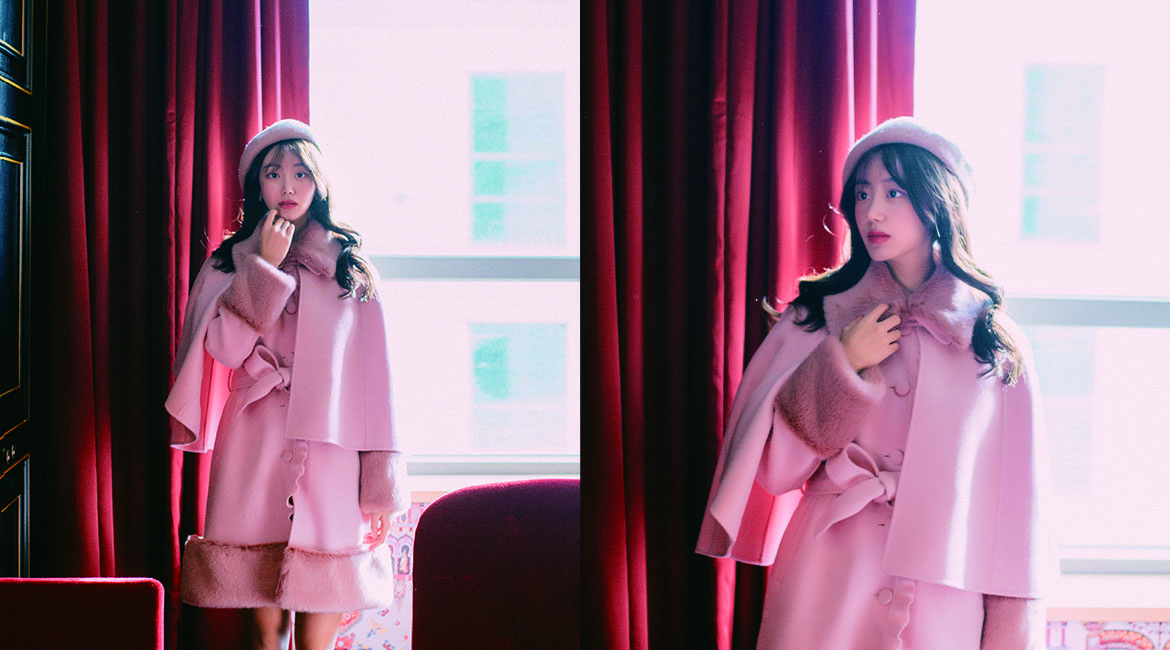
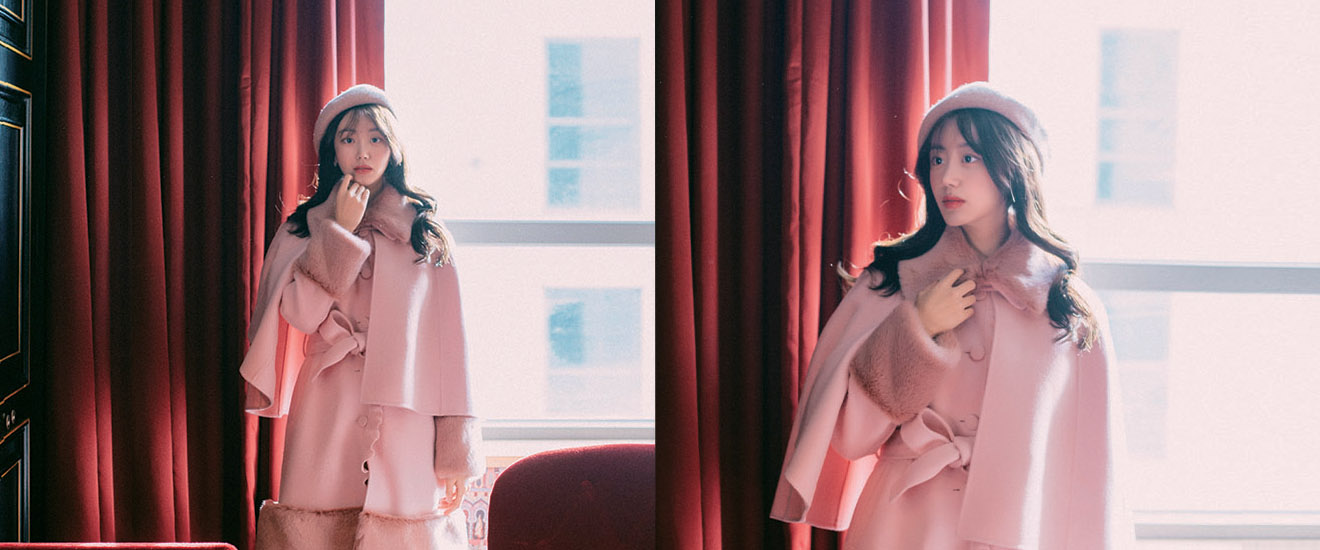
6 룩북바꾸고 드레스/아우터 스크롤없앰

diff --git a/sub/look.html b/sub/look.html
@@ -6,6 +6,7 @@
    <link rel="stylesheet" href="../css/style.css">
    <script src="../js/jquery.min.js"></script>
    <script src="../js/common.js"></script>
+   <link rel="stylesheet" href="https://unpkg.com/swiper/swiper-bundle.min.css">
     <!--[if lt IE 9]>
       <script src = "http://html5shiv.googlecode.com/svn/trunk/html5.js"></script>
     <![endif]-->
@@ -28,40 +29,50 @@
      <div id="look">
        <div class="container">
          <p class="look_text">LOOK&nbsp;BOOK</p>
-           <div class="look_list">
-             <ul>
-               <li><a href="../img/sub/unjin1.jpg"><img src="../img/sub/unjin1.jpg"  alt=""></a></li>
-               <li><a href="../img/sub/unjin2.jpg"><img src="../img/sub/unjin2.jpg"  alt=""></a></li>
-               <li><a href="../img/sub/unjin3.jpg"><img src="../img/sub/unjin3.jpg"  alt=""></a></li>
-               <li><a href="../img/sub/unjin4.jpg"><img src="../img/sub/unjin4.jpg"  alt=""></a></li>
-               <li><a href="../img/sub/unjin5.jpg"><img src="../img/sub/unjin5.jpg"  alt=""></a></li>
-               <li><a href="../img/sub/unjin6.jpg"><img src="../img/sub/unjin6.jpg"  alt=""></a></li>
-               <li><a href="../img/sub/unjin7.jpg"><img src="../img/sub/unjin7.jpg"  alt=""></a></li>
-               <li><a href="../img/sub/unjin8.jpg"><img src="../img/sub/unjin8.jpg"  alt=""></a></li>
-             </ul>
-             <ul>
-               <li><a href="../img/sub/unjin8.jpg"><img src="../img/sub/unjin8.jpg"  alt=""></a></li>
-               <li><a href="../img/sub/unjin7.jpg"><img src="../img/sub/unjin7.jpg"  alt=""></a></li>
-               <li><a href="../img/sub/unjin6.jpg"><img src="../img/sub/unjin6.jpg"  alt=""></a></li>
-               <li><a href="../img/sub/unjin5.jpg"><img src="../img/sub/unjin5.jpg"  alt=""></a></li>
-               <li><a href="../img/sub/unjin4.jpg"><img src="../img/sub/unjin4.jpg"  alt=""></a></li>
-               <li><a href="../img/sub/unjin3.jpg"><img src="../img/sub/unjin3.jpg"  alt=""></a></li>
-               <li><a href="../img/sub/unjin2.jpg"><img src="../img/sub/unjin2.jpg"  alt=""></a></li>
-               <li><a href="../img/sub/unjin1.jpg"><img src="../img/sub/unjin1.jpg"  alt=""></a></li>
-             </ul>
-             <ul>
-               <li><a href="../img/sub/unjin1.jpg"><img src="../img/sub/unjin1.jpg"  alt=""></a></li>
-               <li><a href="../img/sub/unjin2.jpg"><img src="../img/sub/unjin2.jpg"  alt=""></a></li>
-               <li><a href="../img/sub/unjin3.jpg"><img src="../img/sub/unjin3.jpg"  alt=""></a></li>
-               <li><a href="../img/sub/unjin4.jpg"><img src="../img/sub/unjin4.jpg"  alt=""></a></li>
-               <li><a href="../img/sub/unjin5.jpg"><img src="../img/sub/unjin5.jpg"  alt=""></a></li>
-               <li><a href="../img/sub/unjin6.jpg"><img src="../img/sub/unjin6.jpg"  alt=""></a></li>
-               <li><a href="../img/sub/unjin7.jpg"><img src="../img/sub/unjin7.jpg"  alt=""></a></li>
-               <li><a href="../img/sub/unjin8.jpg"><img src="../img/sub/unjin8.jpg"  alt=""></a></li>
-             </ul>
-           </div>
+         <div class="swiper-container gallery-top">
+       		<div class="swiper-wrapper">
+       			<div class="swiper-slide" style="background-image:url(../img/sub/unjin1.jpg)">
+       			</div>
+       			<div class="swiper-slide" style="background-image:url(../img/sub/unjin2.jpg)">
+       			</div>
+       			<div class="swiper-slide" style="background-image:url(../img/sub/unjin3.jpg)">
+       			</div>
+       			<div class="swiper-slide" style="background-image:url(../img/sub/unjin4.jpg)">
+       			</div>
+       			<div class="swiper-slide" style="background-image:url(../img/sub/unjin5.jpg)">
+       			</div>
+       			<div class="swiper-slide" style="background-image:url(../img/sub/unjin6.jpg)">
+       			</div>
+       			<div class="swiper-slide" style="background-image:url(../img/sub/unjin7.jpg)">
+       			</div>
+       			<div class="swiper-slide" style="background-image:url(../img/sub/unjin8.jpg)">
+       			</div>
+       		</div>
+       		<!-- Add Arrows -->
+       		<div class="swiper-button-next swiper-button-white"></div>
+       		<div class="swiper-button-prev swiper-button-white"></div>
+       	</div>
+       	<div class="swiper-container gallery-thumbs">
+       		<div class="swiper-wrapper">
+       			<div class="swiper-slide" style="background-image:url(../img/sub/unjin1.jpg)">
+       			</div>
+       			<div class="swiper-slide" style="background-image:url(../img/sub/unjin2.jpg)">
+       			</div>
+       			<div class="swiper-slide" style="background-image:url(../img/sub/unjin3.jpg)">
+       			</div>
+       			<div class="swiper-slide" style="background-image:url(../img/sub/unjin4.jpg)">
+       			</div>
+       			<div class="swiper-slide" style="background-image:url(../img/sub/unjin5.jpg)">
+       			</div>
+       			<div class="swiper-slide" style="background-image:url(../img/sub/unjin6.jpg)">
+       			</div>
+       			<div class="swiper-slide" style="background-image:url(../img/sub/unjin7.jpg)">
+       			</div>
+       			<div class="swiper-slide" style="background-image:url(../img/sub/unjin8.jpg)">
+       			</div>
 
-           <p class="img_box">  <img src="../img/sub/unjin1.jpg"> </p>
+       		</div>
+       	</div>
          </div>
      </div>
    </main>
@@ -69,5 +80,32 @@
      ⓒcopyright all rights reserved.
    </footer>
   </div>
+  <!-- Swiper JS -->
+	<script src="https://unpkg.com/swiper/swiper-bundle.min.js"></script>
+
+	<!-- Initialize Swiper -->
+	<script>
+		var galleryThumbs = new Swiper('.gallery-thumbs', {
+      spaceBetween: 8,
+      slidesPerView: 5,
+      loop: true,
+      freeMode: true,
+      loopedSlides: 6, //몇번째에 넘어갈건지
+      watchSlidesVisibility: true,
+      watchSlidesProgress: true,
+    });
+    var galleryTop = new Swiper('.gallery-top', {
+      spaceBetween: 8,
+      loop:true,
+      loopedSlides: 6,
+      navigation: {
+        nextEl: '.swiper-button-next',
+        prevEl: '.swiper-button-prev',
+      },
+      thumbs: {
+        swiper: galleryThumbs,
+      },
+    });
+	</script>
 </body>
 </html>

diff --git a/css/style.css b/css/style.css
@@ -122,8 +122,8 @@ a:hover {
 
 #wrap #footer {
   margin-top: 50px;
-  height: 80px;
-  line-height: 80px;
+  height: 50px;
+  line-height: 50px;
   text-align: center;
   border-top: 1px solid #a83d4f;
   color: #a83d4f;
@@ -189,27 +189,6 @@ body.subpage main #story .story_text {
   width: 110px;
 }
 
-body.subpage main #look .container .look_list {
-  position: absolute;
-  left: 9%;
-  top: 10%;
-  padding: 20px;
-  width: 315px;
-  border: 1px dotted #a83d4f;
-}
-
-body.subpage main #look .container .look_list ul {
-  display: inline-block;
-  width: 100px;
-}
-
-body.subpage main #look .container .look_list ul li img {
-  width: 100px;
-  height: 100px;
-  padding: 0;
-  margin: 0;
-}
-
 body.subpage main #look .container .look_text {
   position: absolute;
   top: -1%;
@@ -219,15 +198,38 @@ body.subpage main #look .container .look_text {
   width: 110px;
 }
 
-body.subpage main #look .container .img_box {
-  position: absolute;
-  top: 8.8%;
-  left: 40%;
+body.subpage main #look .container .swiper-container {
+  width: 80%;
+  height: 100%;
+  margin-left: auto;
+  margin-right: auto;
+  top: 120px;
 }
 
-body.subpage main #look .container .img_box img {
+body.subpage main #look .container .swiper-slide {
+  background-size: cover;
+  background-position: center;
+}
+
+body.subpage main #look .container .gallery-top {
+  height: 60%;
   width: 80%;
-  height: 80%;
+}
+
+body.subpage main #look .container .gallery-thumbs {
+  height: 5%;
+  box-sizing: border-box;
+  padding: 10px 0;
+}
+
+body.subpage main #look .container .gallery-thumbs .swiper-slide {
+  width: 20%;
+  height: 100%;
+  opacity: 0.4;
+}
+
+body.subpage main #look .container .gallery-thumbs .swiper-slide-thumb-active {
+  opacity: 1;
 }
 
 body.subpage main #dress .dress_text, body.subpage main #outer .dress_text {
@@ -240,9 +242,7 @@ body.subpage main #dress .dress_text, body.subpage main #outer .dress_text {
 }
 
 body.subpage main #dress .dress_list, body.subpage main #outer .dress_list {
-  height: 1100px;
-  overflow-x: hidden;
-  overflow-y: auto;
+  height: 100%;
   position: absolute;
   top: 8%;
 }

diff --git a/scss/subpage.scss b/scss/subpage.scss
@@ -24,24 +24,38 @@ body.subpage{
 
     #look{
       .container{
-      .look_list{ position: absolute; left: 9%; top: 10%;
-        padding: 20px; width: 315px; border: 1px dotted $fontColorPrimary;
-        ul{
-          display: inline-block; width: 100px;
-          li{
-            img{ width: 100px; height: 100px; padding: 0; margin: 0;
-          }
+        .look_text{
+          position: absolute; top: -1%; left: 45%;
+          border: 1px dotted $fontColorPrimary; padding: 10px; width: 110px;
         }
-      }
-      }
-      .look_text{
-        position: absolute; top: -1%; left: 45%;
-        border: 1px dotted $fontColorPrimary; padding: 10px; width: 110px;
-      }
-      .img_box{ position: absolute; top: 8.8%; left: 40%;
-        img{width: 80%; height: 80%;
-       }
-      }
+        .swiper-container {
+          width: 80%;
+          height: 100%;
+          margin-left: auto;
+          margin-right: auto;
+          top: 120px;
+        }
+        .swiper-slide {
+          background-size: cover;
+          background-position: center;
+        }
+        .gallery-top {
+          height: 60%;
+          width: 80%;
+        }
+        .gallery-thumbs {
+          height: 5%;
+          box-sizing: border-box;
+          padding: 10px 0;
+        }
+        .gallery-thumbs .swiper-slide {
+          width: 20%;
+          height: 100%;
+          opacity: 0.4;
+        }
+        .gallery-thumbs .swiper-slide-thumb-active {
+          opacity: 1;
+        }
 
     }
 
@@ -53,7 +67,7 @@ body.subpage{
       border: 1px dotted $fontColorPrimary; padding: 10px; width: 110px;
     }
     .dress_list{
-      height: 1100px;overflow-x:hidden; overflow-y:auto;
+      height: 100%;
       position: absolute;top: 8%;
 
       ul{

diff --git a/sub/outer.html b/sub/outer.html
@@ -41,18 +41,6 @@
              <li><img src="../img/sub/outer7.jpg" alt=""><p><strong> outer07 </strong> <br> Lorem ipsum dolor sit amet, consectetur adipisicing.</p></li>
              <li><img src="../img/sub/outer8.jpg" alt=""><p><strong> outer08 </strong> <br> Lorem ipsum dolor sit amet, consectetur adipisicing.</p></li>
            </ul>
-           <ul>
-             <li><img src="../img/sub/outer1.jpg" alt=""><p><strong> outer09 </strong> <br> Lorem ipsum dolor sit amet, consectetur adipisicing.</p></li>
-             <li><img src="../img/sub/outer2.jpg" alt=""><p><strong> outer010 </strong> <br> Lorem ipsum dolor sit amet, consectetur adipisicing.</p></li>
-             <li><img src="../img/sub/outer3.jpg" alt=""><p><strong> outer011 </strong> <br> Lorem ipsum dolor sit amet, consectetur adipisicing.</p></li>
-             <li><img src="../img/sub/outer4.jpg" alt=""><p><strong> outer012 </strong> <br> Lorem ipsum dolor sit amet, consectetur adipisicing.</p></li>
-           </ul>
-           <ul>
-             <li><img src="../img/sub/outer5.jpg" alt=""><p><strong> outer013 </strong> <br> Lorem ipsum dolor sit amet, consectetur adipisicing.</p></li>
-             <li><img src="../img/sub/outer6.jpg" alt=""><p><strong> outer014 </strong> <br> Lorem ipsum dolor sit amet, consectetur adipisicing.</p></li>
-             <li><img src="../img/sub/outer7.jpg" alt=""><p><strong> outer015 </strong> <br> Lorem ipsum dolor sit amet, consectetur adipisicing.</p></li>
-             <li><img src="../img/sub/outer8.jpg" alt=""><p><strong> outer016 </strong> <br> Lorem ipsum dolor sit amet, consectetur adipisicing.</p></li>
-           </ul>
          </div>
 
        </div>

diff --git a/sub/dress.html b/sub/dress.html
@@ -41,18 +41,6 @@
              <li><img src="../img/sub/dress7.jpg" alt=""><p><strong> dress07 </strong> <br> Lorem ipsum dolor sit amet, consectetur adipisicing.</p></li>
              <li><img src="../img/sub/dress8.jpg" alt=""><p><strong> dress08 </strong> <br> Lorem ipsum dolor sit amet, consectetur adipisicing.</p></li>
            </ul>
-           <ul>
-             <li><img src="../img/sub/dress1.jpg" alt=""><p><strong> dress09 </strong> <br> Lorem ipsum dolor sit amet, consectetur adipisicing.</p></li>
-             <li><img src="../img/sub/dress2.jpg" alt=""><p><strong> dress10 </strong> <br> Lorem ipsum dolor sit amet, consectetur adipisicing.</p></li>
-             <li><img src="../img/sub/dress3.jpg" alt=""><p><strong> dress11 </strong> <br> Lorem ipsum dolor sit amet, consectetur adipisicing.</p></li>
-             <li><img src="../img/sub/dress4.jpg" alt=""><p><strong> dress12 </strong> <br> Lorem ipsum dolor sit amet, consectetur adipisicing.</p></li>
-           </ul>
-           <ul>
-             <li><img src="../img/sub/dress5.jpg" alt=""><p><strong> dress13 </strong> <br> Lorem ipsum dolor sit amet, consectetur adipisicing.</p></li>
-             <li><img src="../img/sub/dress6.jpg" alt=""><p><strong> dress14 </strong> <br> Lorem ipsum dolor sit amet, consectetur adipisicing.</p></li>
-             <li><img src="../img/sub/dress7.jpg" alt=""><p><strong> dress15 </strong> <br> Lorem ipsum dolor sit amet, consectetur adipisicing.</p></li>
-             <li><img src="../img/sub/dress8.jpg" alt=""><p><strong> dress16 </strong> <br> Lorem ipsum dolor sit amet, consectetur adipisicing.</p></li>
-           </ul>
          </div>
 
        </div>

diff --git a/scss/layout.scss b/scss/layout.scss
@@ -44,8 +44,8 @@
   }
   #footer{
     margin-top: 50px;
-    height: 80px;
-    line-height: 80px;
+    height: 50px;
+    line-height: 50px;
     text-align: center;
     border-top: 1px solid $borderColorPrimary;
     color: $fontColorPrimary;
